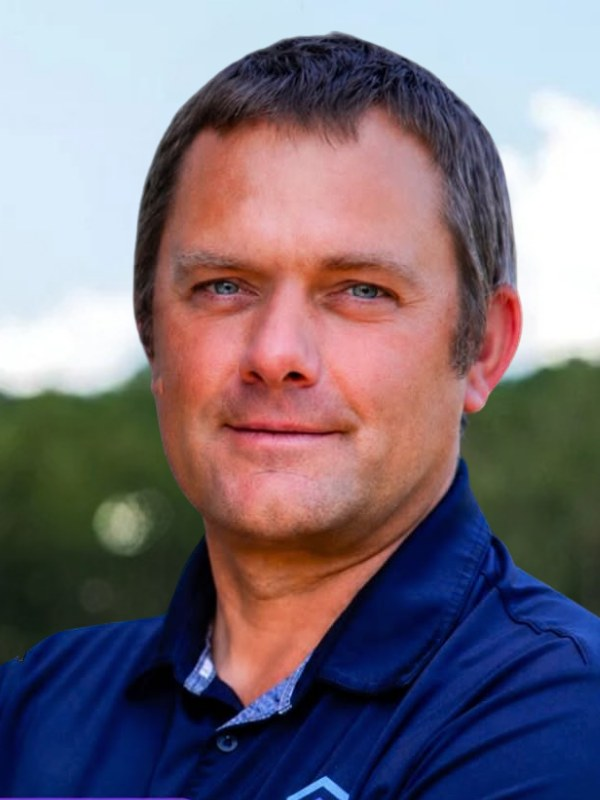
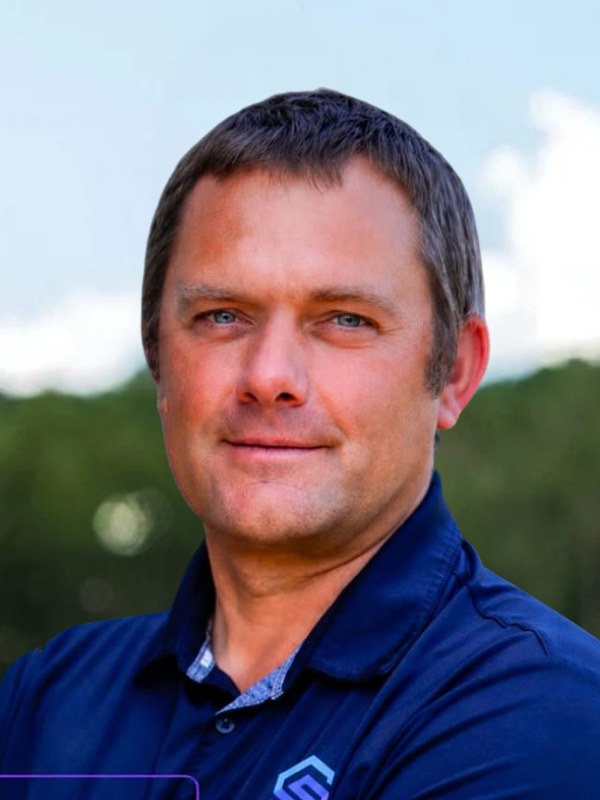
GM site updates (Madison 8/7): Atmosphere + club fitting images, Sweeney for Carter
- Home: 'Here, nature sets the rhythm - not the tee sheet' now runs on the
  golden-hour course photo the GM picked (atmosphere.jpg).
- Golf: club fitting callout swapped to the fitting-station photo
  (clubfitting-station.jpg). Source was a 4672x7008 portrait, cropped to the
  4:3 callout frame keeping his head, hands, the club and the bench.
- Instruction: Mark Carter removed, Mark Sweeney added (AimPoint Founder &
  Performance Coach) with her copy; Terry Rowles on his updated headshot. Team
  stays at six, so the grid still fills two rows of three.

coach-carter.jpg and clubfitting-bags.jpg are now unused but kept in assets, in
case Carter returns to the page.

Bump cache-bust to v=76.

diff --git a/index.html b/index.html
@@ -16,8 +16,8 @@
   <link rel="stylesheet" href="https://use.typekit.net/bux1rla.css">
   <!-- LCP: the home hero poster paints first regardless of mode -->
   <link rel="preload" as="image" href="assets/home-hero.jpg" fetchpriority="high">
-  <link rel="stylesheet" href="styles/colors_and_type.css?v=75">
-  <link rel="stylesheet" href="styles/site.css?v=75">
+  <link rel="stylesheet" href="styles/colors_and_type.css?v=76">
+  <link rel="stylesheet" href="styles/site.css?v=76">
 </head>
 <body>
   <div id="app"></div>
@@ -30,27 +30,27 @@
   <script defer src="https://unpkg.com/react-dom@18.3.1/umd/react-dom.production.min.js" crossorigin="anonymous"></script>
 
   <!-- Shared components (compiled from components/*.jsx) -->
-  <script defer src="components/Reveal.js?v=75"></script>
-  <script defer src="components/Motion.js?v=75"></script>
-  <script defer src="components/Blocks.js?v=75"></script>
-  <script defer src="components/NewsStore.js?v=75"></script>
-  <script defer src="components/Header.js?v=75"></script>
-  <script defer src="components/Footer.js?v=75"></script>
-  <script defer src="components/Splash.js?v=75"></script>
+  <script defer src="components/Reveal.js?v=76"></script>
+  <script defer src="components/Motion.js?v=76"></script>
+  <script defer src="components/Blocks.js?v=76"></script>
+  <script defer src="components/NewsStore.js?v=76"></script>
+  <script defer src="components/Header.js?v=76"></script>
+  <script defer src="components/Footer.js?v=76"></script>
+  <script defer src="components/Splash.js?v=76"></script>
 
   <!-- Pages (compiled from pages/*.jsx) -->
-  <script defer src="pages/Home.js?v=75"></script>
-  <script defer src="pages/Golf.js?v=75"></script>
-  <script defer src="pages/Racquets.js?v=75"></script>
-  <script defer src="pages/Location.js?v=75"></script>
-  <script defer src="pages/News.js?v=75"></script>
-  <script defer src="pages/Guests.js?v=75"></script>
-  <script defer src="pages/Instruction.js?v=75"></script>
-  <script defer src="pages/Membership.js?v=75"></script>
-  <script defer src="pages/Admin.js?v=75"></script>
+  <script defer src="pages/Home.js?v=76"></script>
+  <script defer src="pages/Golf.js?v=76"></script>
+  <script defer src="pages/Racquets.js?v=76"></script>
+  <script defer src="pages/Location.js?v=76"></script>
+  <script defer src="pages/News.js?v=76"></script>
+  <script defer src="pages/Guests.js?v=76"></script>
+  <script defer src="pages/Instruction.js?v=76"></script>
+  <script defer src="pages/Membership.js?v=76"></script>
+  <script defer src="pages/Admin.js?v=76"></script>
 
   <!-- App shell + bootstrap (compiled from app.jsx) — runs last -->
-  <script defer src="app.js?v=75"></script>
+  <script defer src="app.js?v=76"></script>
 
   <style>
     @keyframes fadeIn { from { opacity: 0; } to { opacity: 1; } }

diff --git a/pages/Instruction.js b/pages/Instruction.js
@@ -28,15 +28,17 @@ function InstructionPage({
     role: 'Director of Golf',
     body: "Matt Cain brings experience from some of the country's most respected private clubs, including Yellowstone Club, Victoria National, and Spanish Oaks. As Director of Golf, he is committed to creating exceptional member experiences while fostering a welcoming culture where personalized service, instruction, and the traditions of the game come together."
   }, {
-    img: 'assets/coach-carter.jpg',
-    name: 'Mark Carter',
-    role: 'Head Golf Professional & Director of Club Fitting',
-    body: "Mark Carter combines elite custom fitting expertise with a passion for player development. After leading TaylorMade Golf's experiential and Tour fitting programs, he brings industry-leading equipment knowledge and a personalized approach to help members maximize performance through precision club fitting and instruction."
-  }, {
     img: 'assets/coach-rowles.jpg',
     name: 'Terry Rowles',
     role: 'Performance Coach',
     body: 'A GOLF Magazine Top 100 Teacher and Golf Digest Top 50 Instructor, Terry Rowles has spent more than three decades coaching tour professionals, elite amateurs, and recreational golfers. His individualized, movement-based teaching philosophy simplifies the game and helps players build lasting confidence, consistency, and performance.'
+  },
+  // GM review 8/7: Mark Sweeney added, Mark Carter removed.
+  {
+    img: 'assets/coach-sweeney.jpg',
+    name: 'Mark Sweeney',
+    role: 'AimPoint Founder & Performance Coach',
+    body: "Founder of the revolutionary AimPoint green-reading system, Mark Sweeney is one of the game's leading experts in putting and green reading. His methods are trusted by many of the world's top professional golfers, and his performance-based approach helps players develop a clearer understanding of slope, speed, and decision-making on the greens."
   }];
   return /*#__PURE__*/React.createElement("div", {
     className: "page-shell"

diff --git a/pages/Instruction.jsx b/pages/Instruction.jsx
@@ -29,16 +29,17 @@ function InstructionPage({ onNav }) {
       body: "Matt Cain brings experience from some of the country's most respected private clubs, including Yellowstone Club, Victoria National, and Spanish Oaks. As Director of Golf, he is committed to creating exceptional member experiences while fostering a welcoming culture where personalized service, instruction, and the traditions of the game come together.",
     },
     {
-      img: 'assets/coach-carter.jpg',
-      name: 'Mark Carter',
-      role: 'Head Golf Professional & Director of Club Fitting',
-      body: "Mark Carter combines elite custom fitting expertise with a passion for player development. After leading TaylorMade Golf's experiential and Tour fitting programs, he brings industry-leading equipment knowledge and a personalized approach to help members maximize performance through precision club fitting and instruction.",
-    },
-    {
       img: 'assets/coach-rowles.jpg',
       name: 'Terry Rowles',
       role: 'Performance Coach',
       body: 'A GOLF Magazine Top 100 Teacher and Golf Digest Top 50 Instructor, Terry Rowles has spent more than three decades coaching tour professionals, elite amateurs, and recreational golfers. His individualized, movement-based teaching philosophy simplifies the game and helps players build lasting confidence, consistency, and performance.',
+    },
+    // GM review 8/7: Mark Sweeney added, Mark Carter removed.
+    {
+      img: 'assets/coach-sweeney.jpg',
+      name: 'Mark Sweeney',
+      role: 'AimPoint Founder & Performance Coach',
+      body: "Founder of the revolutionary AimPoint green-reading system, Mark Sweeney is one of the game's leading experts in putting and green reading. His methods are trusted by many of the world's top professional golfers, and his performance-based approach helps players develop a clearer understanding of slope, speed, and decision-making on the greens.",
     },
   ];
 

diff --git a/pages/Home.jsx b/pages/Home.jsx
@@ -119,7 +119,7 @@ function HomePage({ onNav }) {
       {/* SIGNATURE LINE — full-bleed editorial quote, drifting background */}
       <section className="full-bleed-quote" style={{ overflow: 'hidden' }}>
         <Parallax speed={0.22} style={{ position: 'absolute', inset: '-11% 0', zIndex: 0 }}>
-          <img src="assets/hero-fairway.jpg" alt="" loading="lazy" decoding="async" style={{ width: '100%', height: '100%', objectFit: 'cover' }} />
+          <img src="assets/atmosphere.jpg" alt="" loading="lazy" decoding="async" style={{ width: '100%', height: '100%', objectFit: 'cover' }} />
         </Parallax>
         <div style={{ position: 'absolute', inset: 0, zIndex: 1, background: 'linear-gradient(rgba(15,25,40,0.45), rgba(15,25,40,0.7))' }} />
         <Parallax speed={-0.1} style={{ position: 'relative', zIndex: 2, width: '100%' }}>

diff --git a/pages/Golf.js b/pages/Golf.js
@@ -197,7 +197,7 @@ function GolfPage({
     eyebrow: "Club Fitting & Customization",
     title: "Performance optimization. Not retail fitting.",
     body: ['Our club fitting philosophy is entirely brand agnostic. Equipment decisions are driven by performance data, not manufacturer loyalty.', 'Using advanced fitting technology and personalized analysis, every club is optimized to complement the individual golfer and elevate their performance.'],
-    lgImg: "assets/clubfitting-bags.jpg",
+    lgImg: "assets/clubfitting-station.jpg",
     motif: "grass"
   })), /*#__PURE__*/React.createElement("section", {
     className: "section surface-white",

diff --git a/pages/Golf.jsx b/pages/Golf.jsx
@@ -121,7 +121,7 @@ function GolfPage({ onNav }) {
             'Our club fitting philosophy is entirely brand agnostic. Equipment decisions are driven by performance data, not manufacturer loyalty.',
             'Using advanced fitting technology and personalized analysis, every club is optimized to complement the individual golfer and elevate their performance.',
           ]}
-          lgImg="assets/clubfitting-bags.jpg"
+          lgImg="assets/clubfitting-station.jpg"
           motif="grass"
         />
       </section>

diff --git a/pages/Home.js b/pages/Home.js
@@ -212,7 +212,7 @@ function HomePage({
       zIndex: 0
     }
   }, /*#__PURE__*/React.createElement("img", {
-    src: "assets/hero-fairway.jpg",
+    src: "assets/atmosphere.jpg",
     alt: "",
     loading: "lazy",
     decoding: "async",
